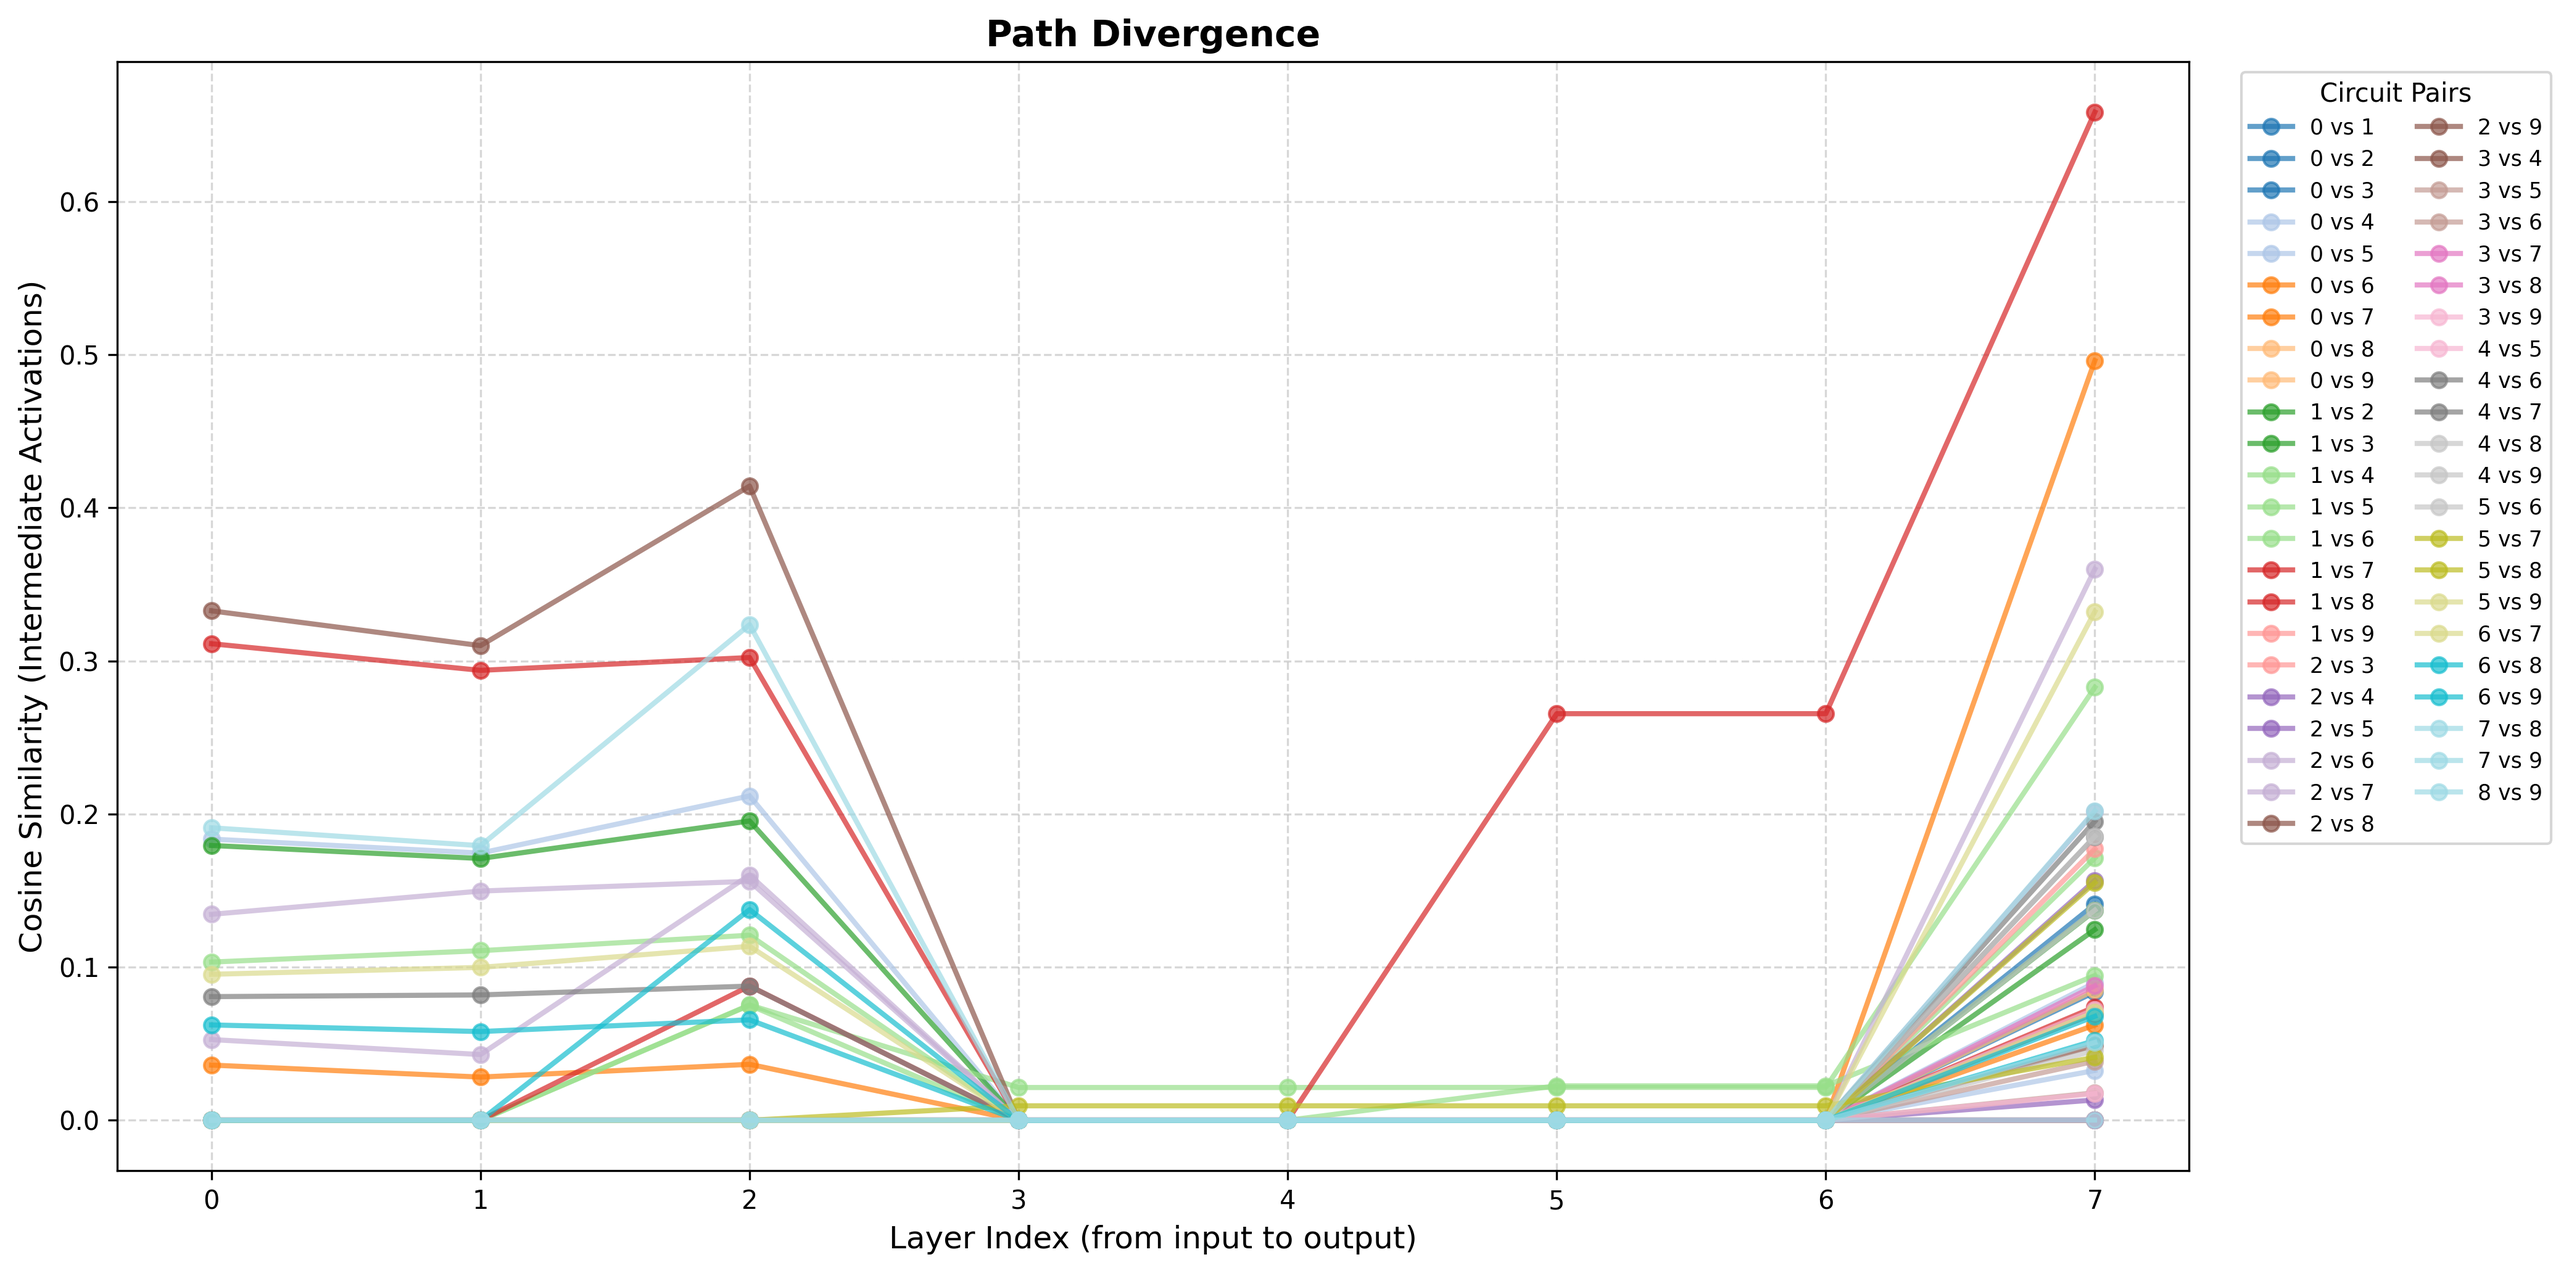
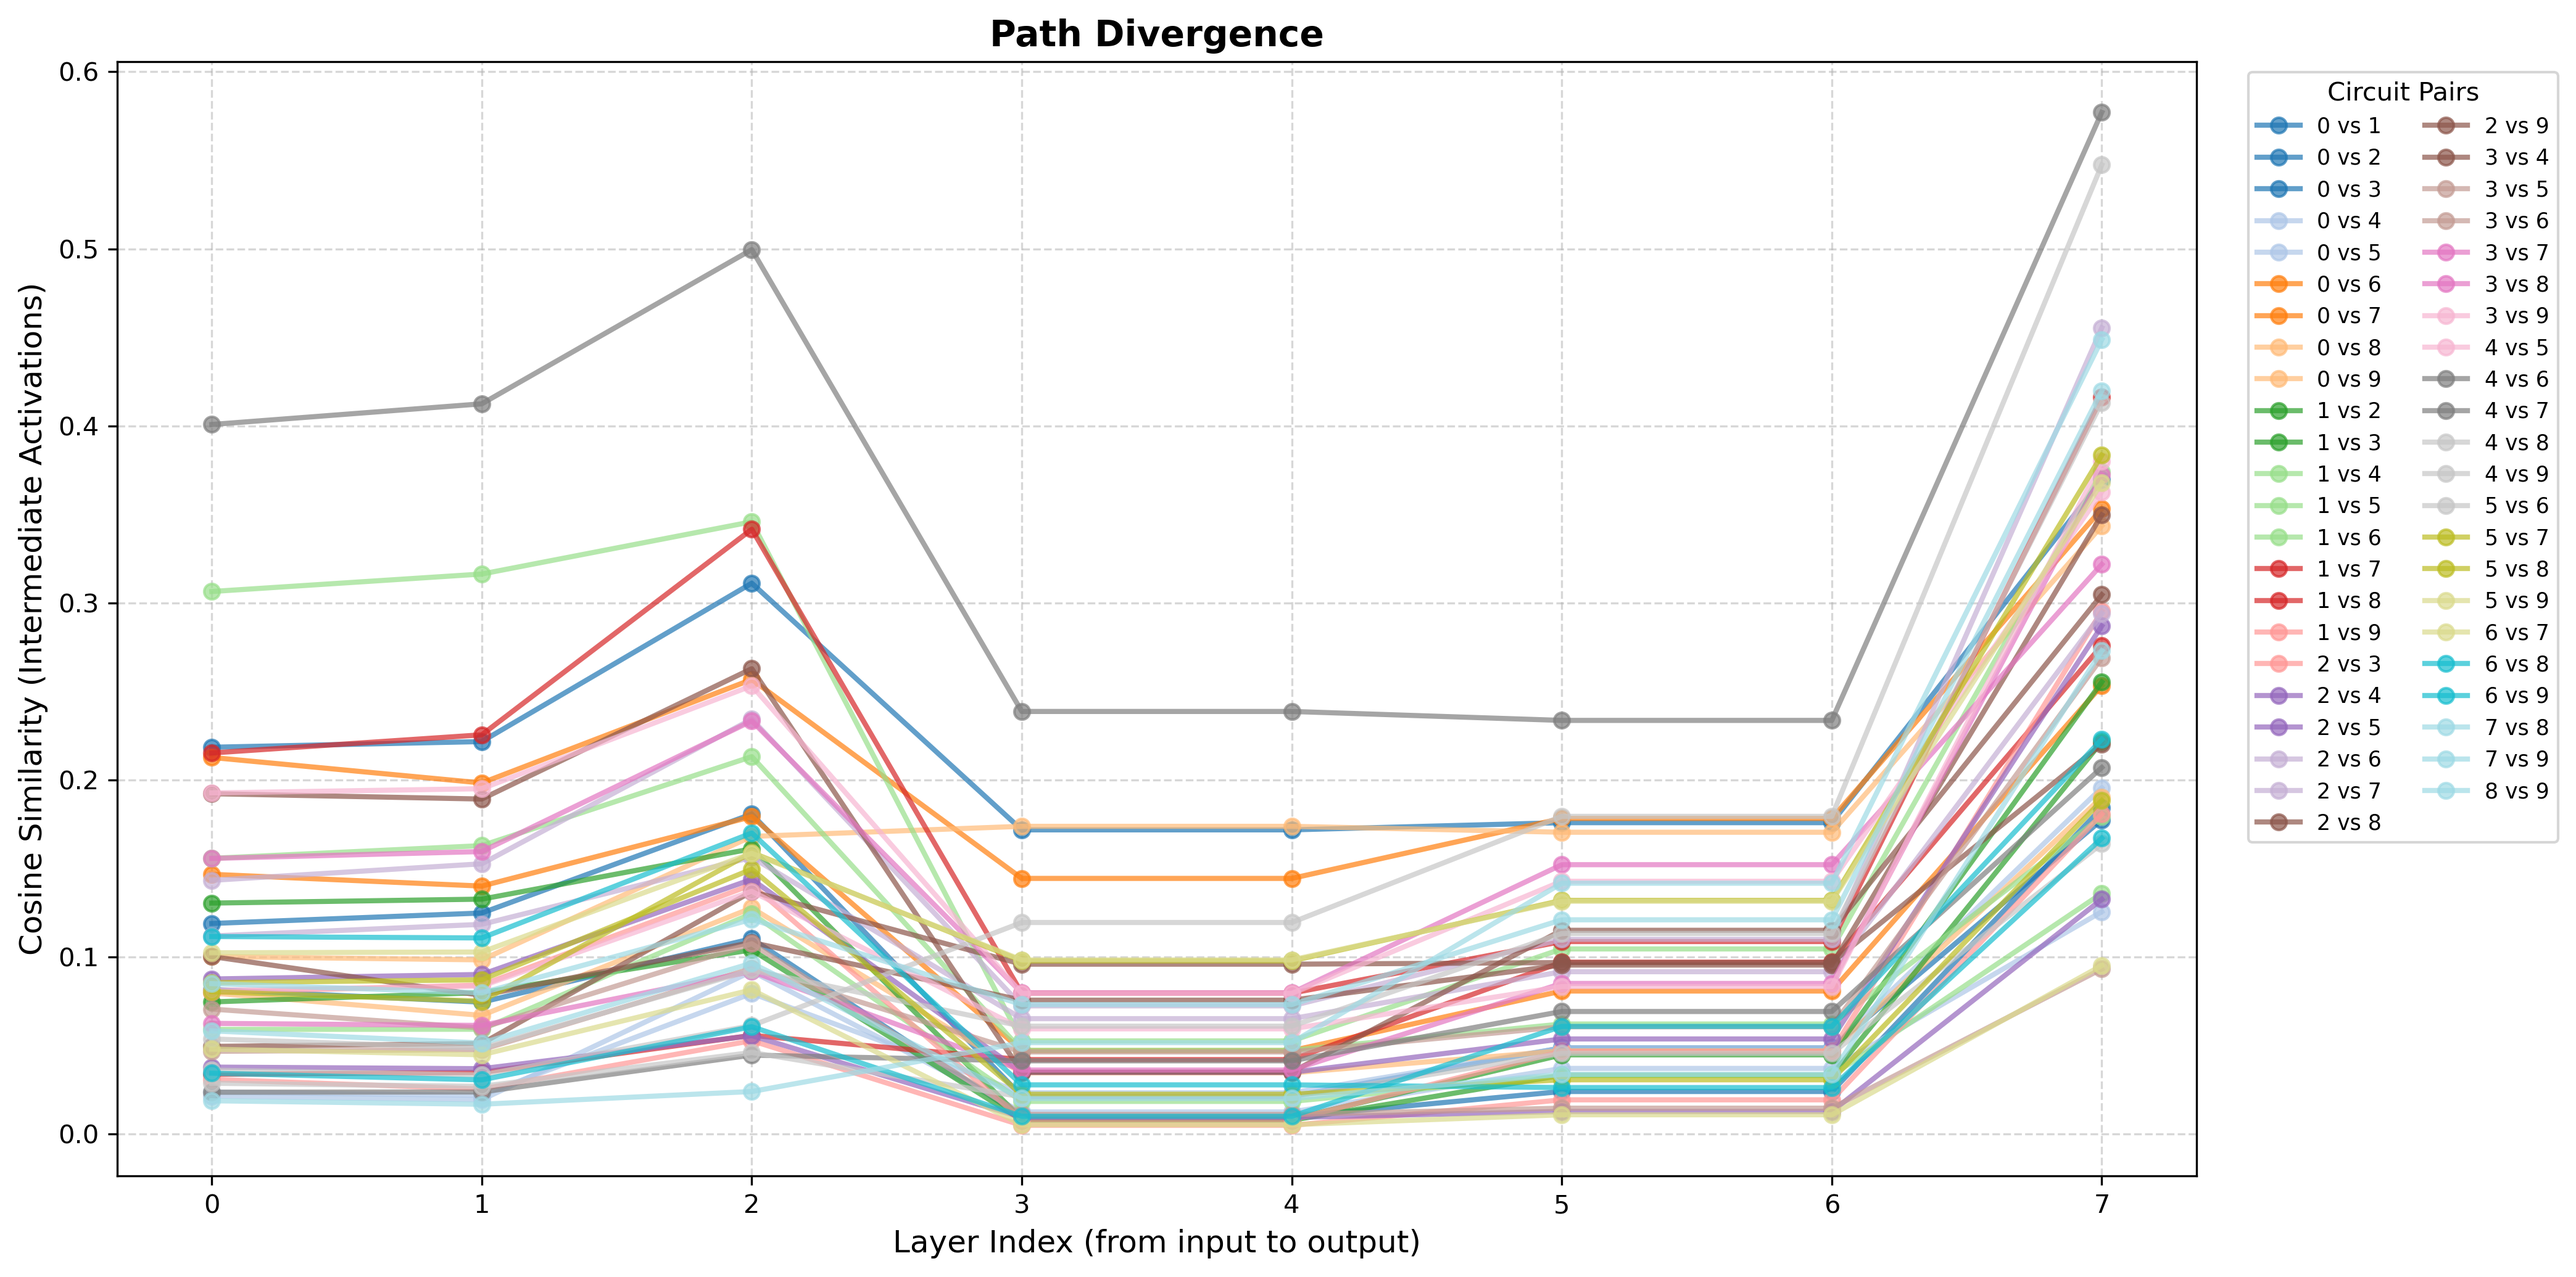
path fixes

diff --git a/utils.py b/utils.py
@@ -49,9 +49,9 @@ def run_class_circuit(class_idx: int, model, epochs=9, l0_lambda=0.05, lr=1e-3, 
         ce.visualize_circuit_masks(circuit) 
         
         import os
-        if os.path.exists("circuit_visualization.png"):
-            os.rename("circuit_visualization.png", f"circuit_viz_class_{class_idx}.png")
-            print(f"Saved visualization to: circuit_viz_class_{class_idx}.png")
+        if os.path.exists("out/circuit_visualization.png"):
+            os.rename("out/circuit_visualization.png", f"out/circuit_viz_class_{class_idx}.png")
+            print(f"Saved visualization to: out/circuit_viz_class_{class_idx}.png")
             
     except Exception as e:
         print(f"Visualization failed: {e}")
@@ -424,10 +424,6 @@ def plot_path_divergence_trajectories(divergence_dict, out_path, title):
 def union_circuits(circuits):
     """circuits: List of circuits"""
     neurons = torch.cat([active_neurons(c) for c in circuits], dim=0).unique()
-
-    # inv = torch.cat([active_neurons(invert_neurons(c)) for c in circuits, dim=0).unique()
-
-    # all_em = torch.cat(neurons, inv).unique()
 
     c_0_neurons = active_neurons(circuits[0])
     c_0 = deepcopy(circuits[0])

diff --git a/circuit_extract.py b/circuit_extract.py
@@ -110,8 +110,8 @@ def visualize_circuit_masks(circuit, binarize=False):
 
     plt.tight_layout(rect=[0, 0.03, 1, 0.95]) # Adjust for suptitle
     
-    output_path = "circuit_visualization.png"
-    # plt.savefig(output_path)
+    output_path = "out/circuit_visualization.png"
+    plt.savefig(output_path)
     plt.show()
     print(f"\nVisualization saved to {output_path}")
 
